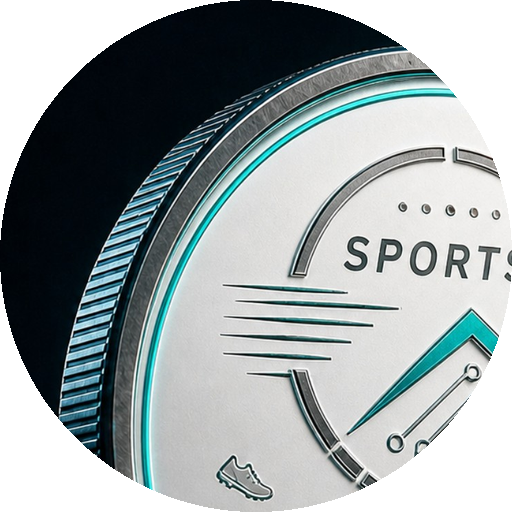
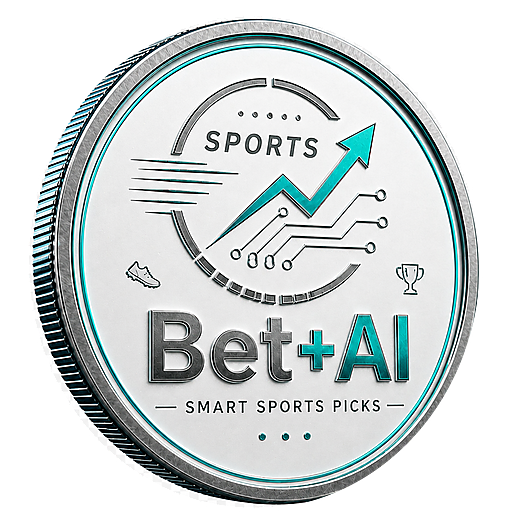
453456

diff --git a/index-dj5lcoc1.css b/index-dj5lcoc1.css
@@ -40,3 +40,54 @@ Error generating stack: `+i.message+`
 .ultra-page-banner-actions,.app-shell.no-rightbar-page .ultra-page-banner-actions{z-index:4!important;}
 @keyframes betaiUltraBannerShine{0%{transform:translateX(-82%) skewX(-14deg);opacity:0;}9%{opacity:.86;}26%{transform:translateX(82%) skewX(-14deg);opacity:.64;}36%{opacity:0;}100%{transform:translateX(82%) skewX(-14deg);opacity:0;}}
 @media (prefers-reduced-motion: reduce){.ultra-page-banner::before,.app-shell.no-rightbar-page .ultra-page-banner::before{animation:none!important;opacity:0!important;}}
+
+/* WERSJA 679 — FINAL COIN ICON: dokładny coin z przesłanego obrazu w sidebarze i topbarze */
+.wallet-token-white-coin,
+.wallet-split-coin{
+  position:relative!important;
+  display:inline-flex!important;
+  align-items:center!important;
+  justify-content:center!important;
+  background:transparent!important;
+  border:0!important;
+  box-shadow:none!important;
+  overflow:visible!important;
+  color:transparent!important;
+  text-shadow:none!important;
+}
+.wallet-token-white-coin img,
+.wallet-split-coin img,
+.wallet-split-coin-core{display:none!important;}
+.wallet-token-white-coin::before,
+.wallet-split-coin::before{
+  content:''!important;
+  display:block!important;
+  width:100%!important;
+  height:100%!important;
+  border-radius:50%!important;
+  background-image:url('/betai-coin-icon.png')!important;
+  background-size:contain!important;
+  background-position:center!important;
+  background-repeat:no-repeat!important;
+  filter:drop-shadow(0 0 7px rgba(34,211,238,.34)) drop-shadow(0 0 5px rgba(255,255,255,.22))!important;
+}
+.wallet-token-white-coin{
+  width:18px!important;
+  height:18px!important;
+  flex:0 0 18px!important;
+  margin-right:7px!important;
+  vertical-align:-4px!important;
+}
+.wallet-split-coin,
+.app-shell .topbar .wallet-split-coin,
+.app-shell .topbar .wallet-top-btn.wallet-split-top-btn .wallet-split-coin{
+  width:30px!important;
+  height:30px!important;
+  flex:0 0 30px!important;
+}
+.app-shell .sidebar .wallet-row span,
+.app-shell .sidebar .wallet-row.wallet-row-tokens span{
+  display:inline-flex!important;
+  align-items:center!important;
+  gap:6px!important;
+}

diff --git a/src/styles.css b/src/styles.css
@@ -24379,3 +24379,54 @@ font[style*="border"]{
 }
 .wallet-split-coin-core{display:none!important;}
 .app-shell .sidebar .wallet-row span{display:inline-flex!important;align-items:center!important;gap:6px!important;}
+
+/* WERSJA 679 — FINAL COIN ICON: dokładny coin z przesłanego obrazu w sidebarze i topbarze */
+.wallet-token-white-coin,
+.wallet-split-coin{
+  position:relative!important;
+  display:inline-flex!important;
+  align-items:center!important;
+  justify-content:center!important;
+  background:transparent!important;
+  border:0!important;
+  box-shadow:none!important;
+  overflow:visible!important;
+  color:transparent!important;
+  text-shadow:none!important;
+}
+.wallet-token-white-coin img,
+.wallet-split-coin img,
+.wallet-split-coin-core{display:none!important;}
+.wallet-token-white-coin::before,
+.wallet-split-coin::before{
+  content:''!important;
+  display:block!important;
+  width:100%!important;
+  height:100%!important;
+  border-radius:50%!important;
+  background-image:url('/betai-coin-icon.png')!important;
+  background-size:contain!important;
+  background-position:center!important;
+  background-repeat:no-repeat!important;
+  filter:drop-shadow(0 0 7px rgba(34,211,238,.34)) drop-shadow(0 0 5px rgba(255,255,255,.22))!important;
+}
+.wallet-token-white-coin{
+  width:18px!important;
+  height:18px!important;
+  flex:0 0 18px!important;
+  margin-right:7px!important;
+  vertical-align:-4px!important;
+}
+.wallet-split-coin,
+.app-shell .topbar .wallet-split-coin,
+.app-shell .topbar .wallet-top-btn.wallet-split-top-btn .wallet-split-coin{
+  width:30px!important;
+  height:30px!important;
+  flex:0 0 30px!important;
+}
+.app-shell .sidebar .wallet-row span,
+.app-shell .sidebar .wallet-row.wallet-row-tokens span{
+  display:inline-flex!important;
+  align-items:center!important;
+  gap:6px!important;
+}

diff --git a/styles.css b/styles.css
@@ -24378,3 +24378,54 @@ font[style*="border"]{
 }
 .wallet-split-coin-core{display:none!important;}
 .app-shell .sidebar .wallet-row span{display:inline-flex!important;align-items:center!important;gap:6px!important;}
+
+/* WERSJA 679 — FINAL COIN ICON: dokładny coin z przesłanego obrazu w sidebarze i topbarze */
+.wallet-token-white-coin,
+.wallet-split-coin{
+  position:relative!important;
+  display:inline-flex!important;
+  align-items:center!important;
+  justify-content:center!important;
+  background:transparent!important;
+  border:0!important;
+  box-shadow:none!important;
+  overflow:visible!important;
+  color:transparent!important;
+  text-shadow:none!important;
+}
+.wallet-token-white-coin img,
+.wallet-split-coin img,
+.wallet-split-coin-core{display:none!important;}
+.wallet-token-white-coin::before,
+.wallet-split-coin::before{
+  content:''!important;
+  display:block!important;
+  width:100%!important;
+  height:100%!important;
+  border-radius:50%!important;
+  background-image:url('/betai-coin-icon.png')!important;
+  background-size:contain!important;
+  background-position:center!important;
+  background-repeat:no-repeat!important;
+  filter:drop-shadow(0 0 7px rgba(34,211,238,.34)) drop-shadow(0 0 5px rgba(255,255,255,.22))!important;
+}
+.wallet-token-white-coin{
+  width:18px!important;
+  height:18px!important;
+  flex:0 0 18px!important;
+  margin-right:7px!important;
+  vertical-align:-4px!important;
+}
+.wallet-split-coin,
+.app-shell .topbar .wallet-split-coin,
+.app-shell .topbar .wallet-top-btn.wallet-split-top-btn .wallet-split-coin{
+  width:30px!important;
+  height:30px!important;
+  flex:0 0 30px!important;
+}
+.app-shell .sidebar .wallet-row span,
+.app-shell .sidebar .wallet-row.wallet-row-tokens span{
+  display:inline-flex!important;
+  align-items:center!important;
+  gap:6px!important;
+}